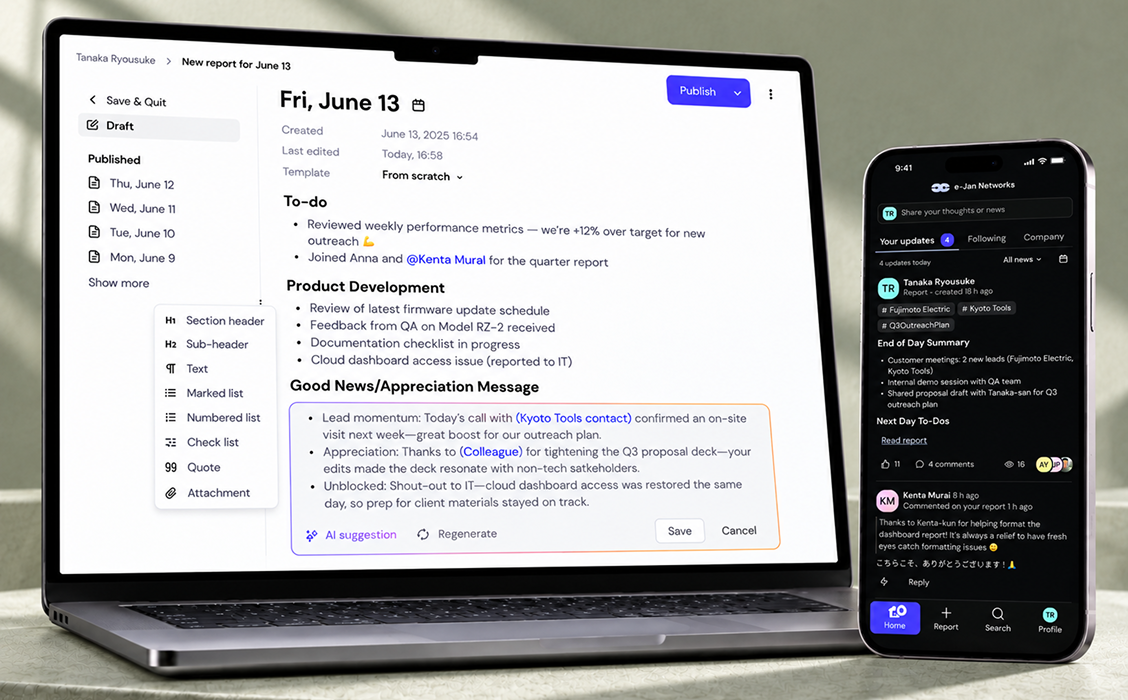
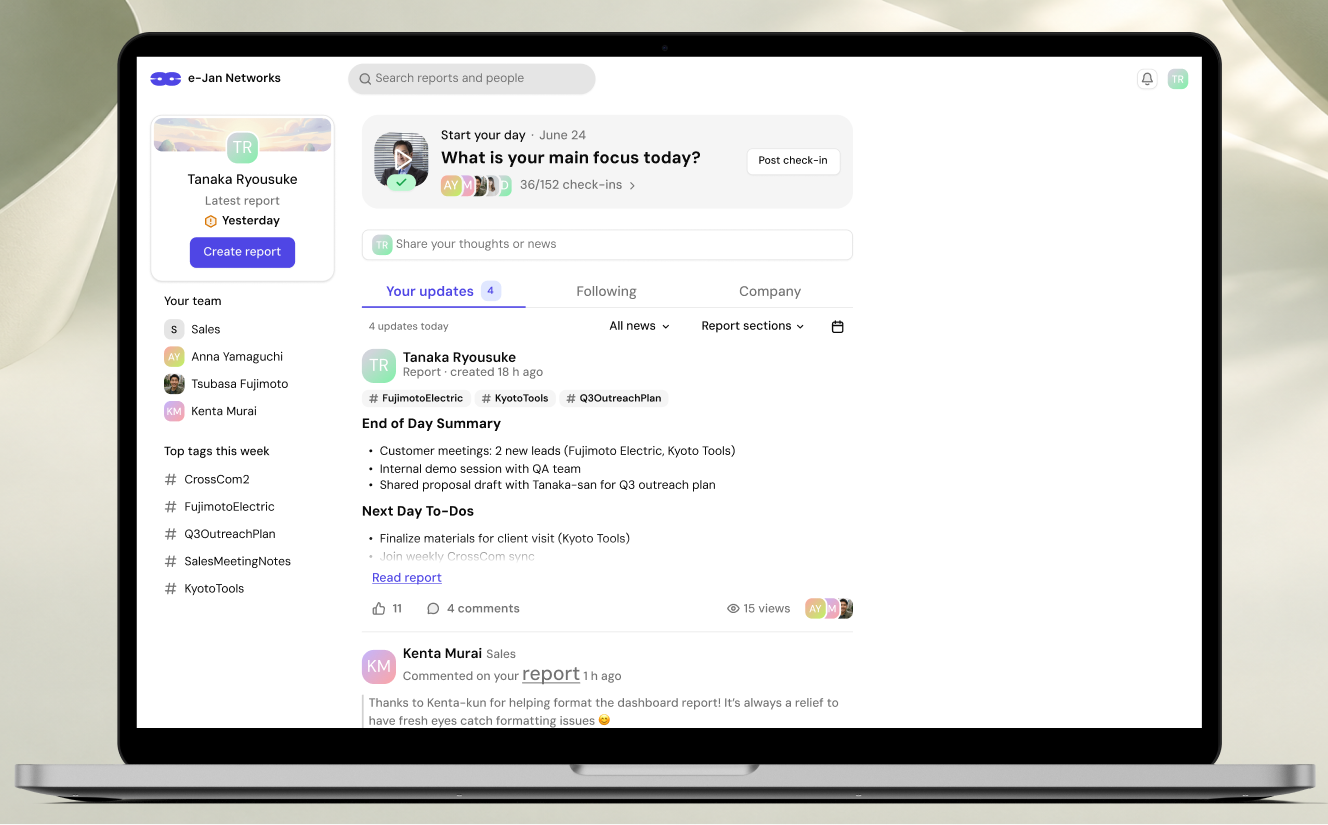
Move CrossCom ahead of Lakku and refresh its thumbnail

diff --git a/index.html b/index.html
@@ -99,25 +99,13 @@
 
         <div class="case-grid">
           <article class="case-card">
-            <a class="case-card__link" href="lakku/" aria-label="Read the Lakku.ai case study">
-              <div class="case-card__visual case-card__visual--lakku" aria-hidden="true">
-                <img src="assets/projects/lakku-thumbnail@2x.png?v=4" width="1328" height="825" alt="" />
-              </div>
-              <div class="case-card__copy">
-                <h3>Lakku.ai — Building an AI marketing platform for Indonesian small businesses</h3>
-                <p>Product case · UX research · AI creation tools · Mobile</p>
-              </div>
-            </a>
-          </article>
-
-          <article class="case-card">
             <a class="case-card__link" href="crosscom/" aria-label="Read the CrossCom case study">
             <div class="case-card__visual case-card__visual--crosscom">
               <img
-                src="assets/projects/crosscom-thumbnail@2x.png?v=2"
-                width="1128"
-                height="700"
-                alt="CrossCom product screens showing a daily report editor and team feedback feed"
+                src="assets/projects/crosscom-thumbnail@2x.png?v=4"
+                width="1328"
+                height="825"
+                alt="CrossCom team updates feed on a MacBook"
               />
             </div>
             <div class="case-card__copy">
@@ -126,6 +114,18 @@
               </h3>
               <p>Product case · UX research · Enterprise · Web</p>
             </div>
+            </a>
+          </article>
+
+          <article class="case-card">
+            <a class="case-card__link" href="lakku/" aria-label="Read the Lakku.ai case study">
+              <div class="case-card__visual case-card__visual--lakku" aria-hidden="true">
+                <img src="assets/projects/lakku-thumbnail@2x.png?v=4" width="1328" height="825" alt="" />
+              </div>
+              <div class="case-card__copy">
+                <h3>Lakku.ai — Building an AI marketing platform for Indonesian small businesses</h3>
+                <p>Product case · UX research · AI creation tools · Mobile</p>
+              </div>
             </a>
           </article>
 
